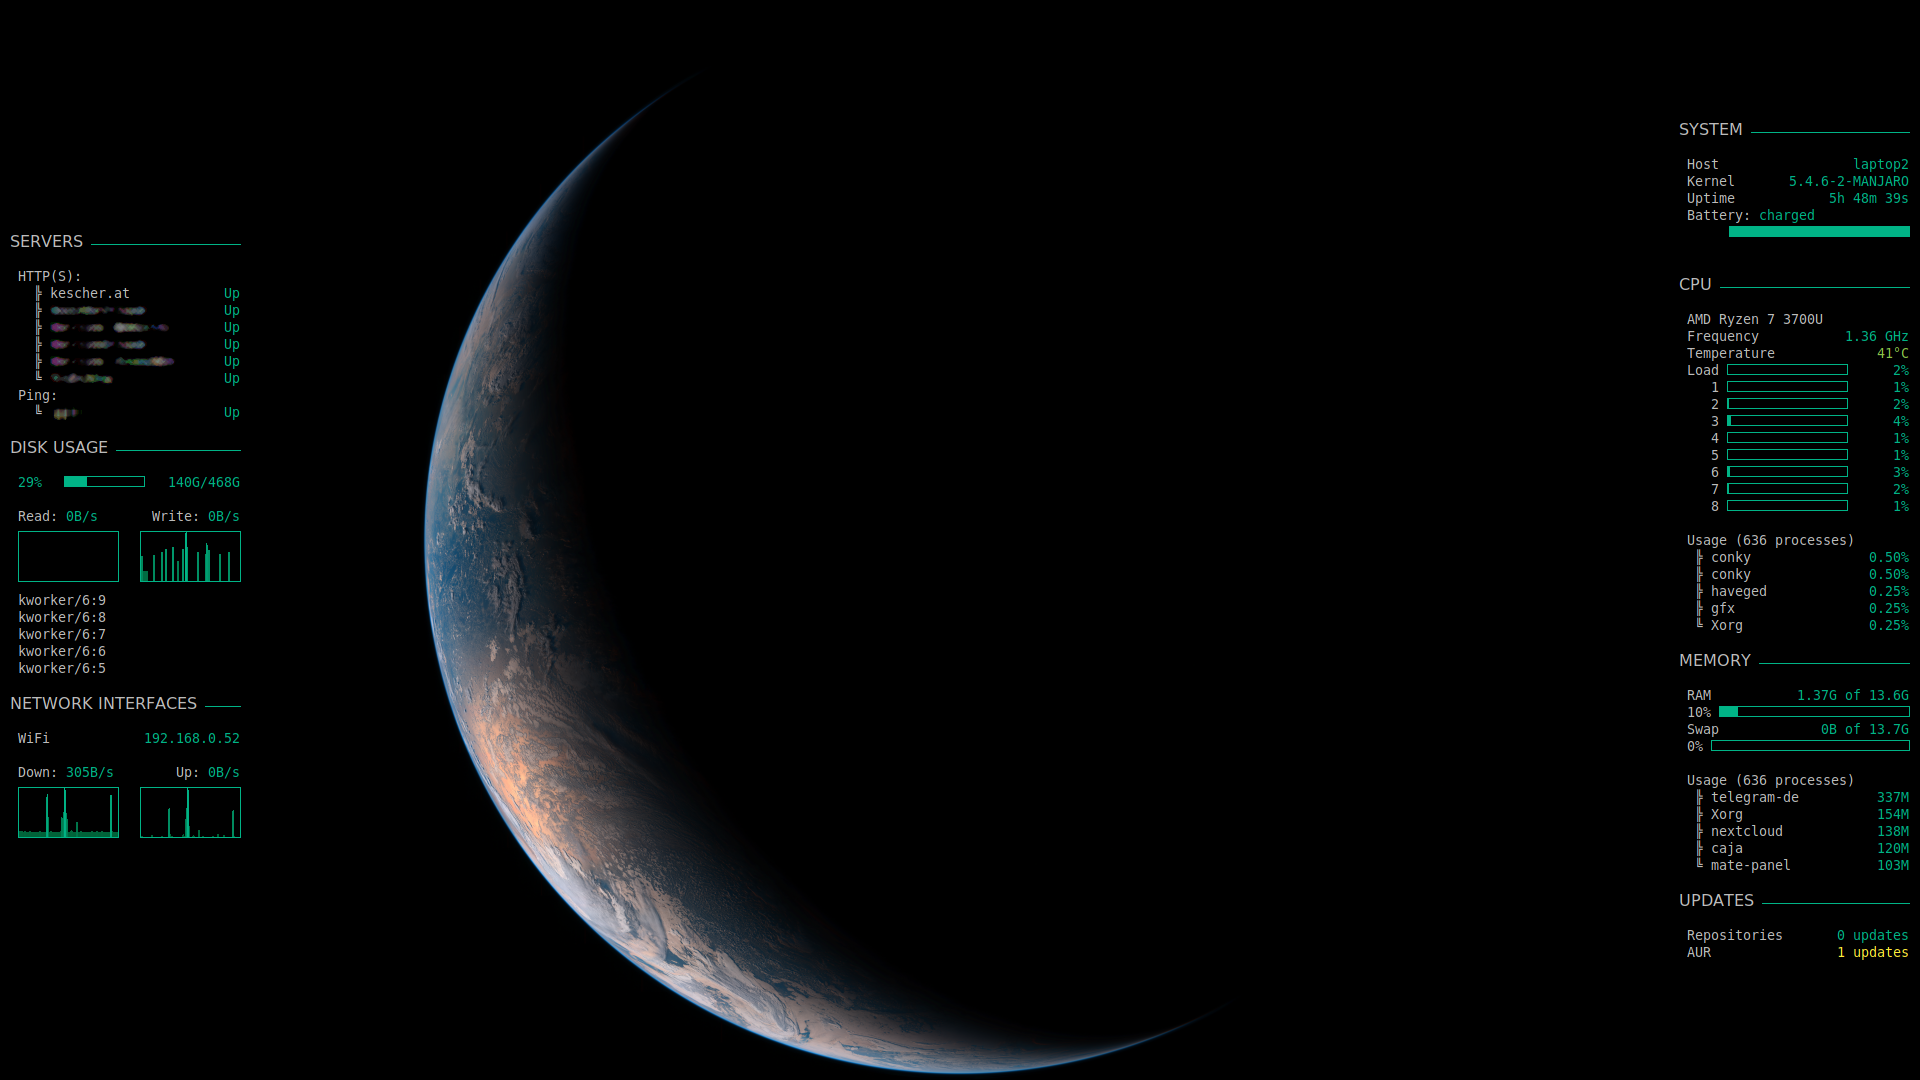
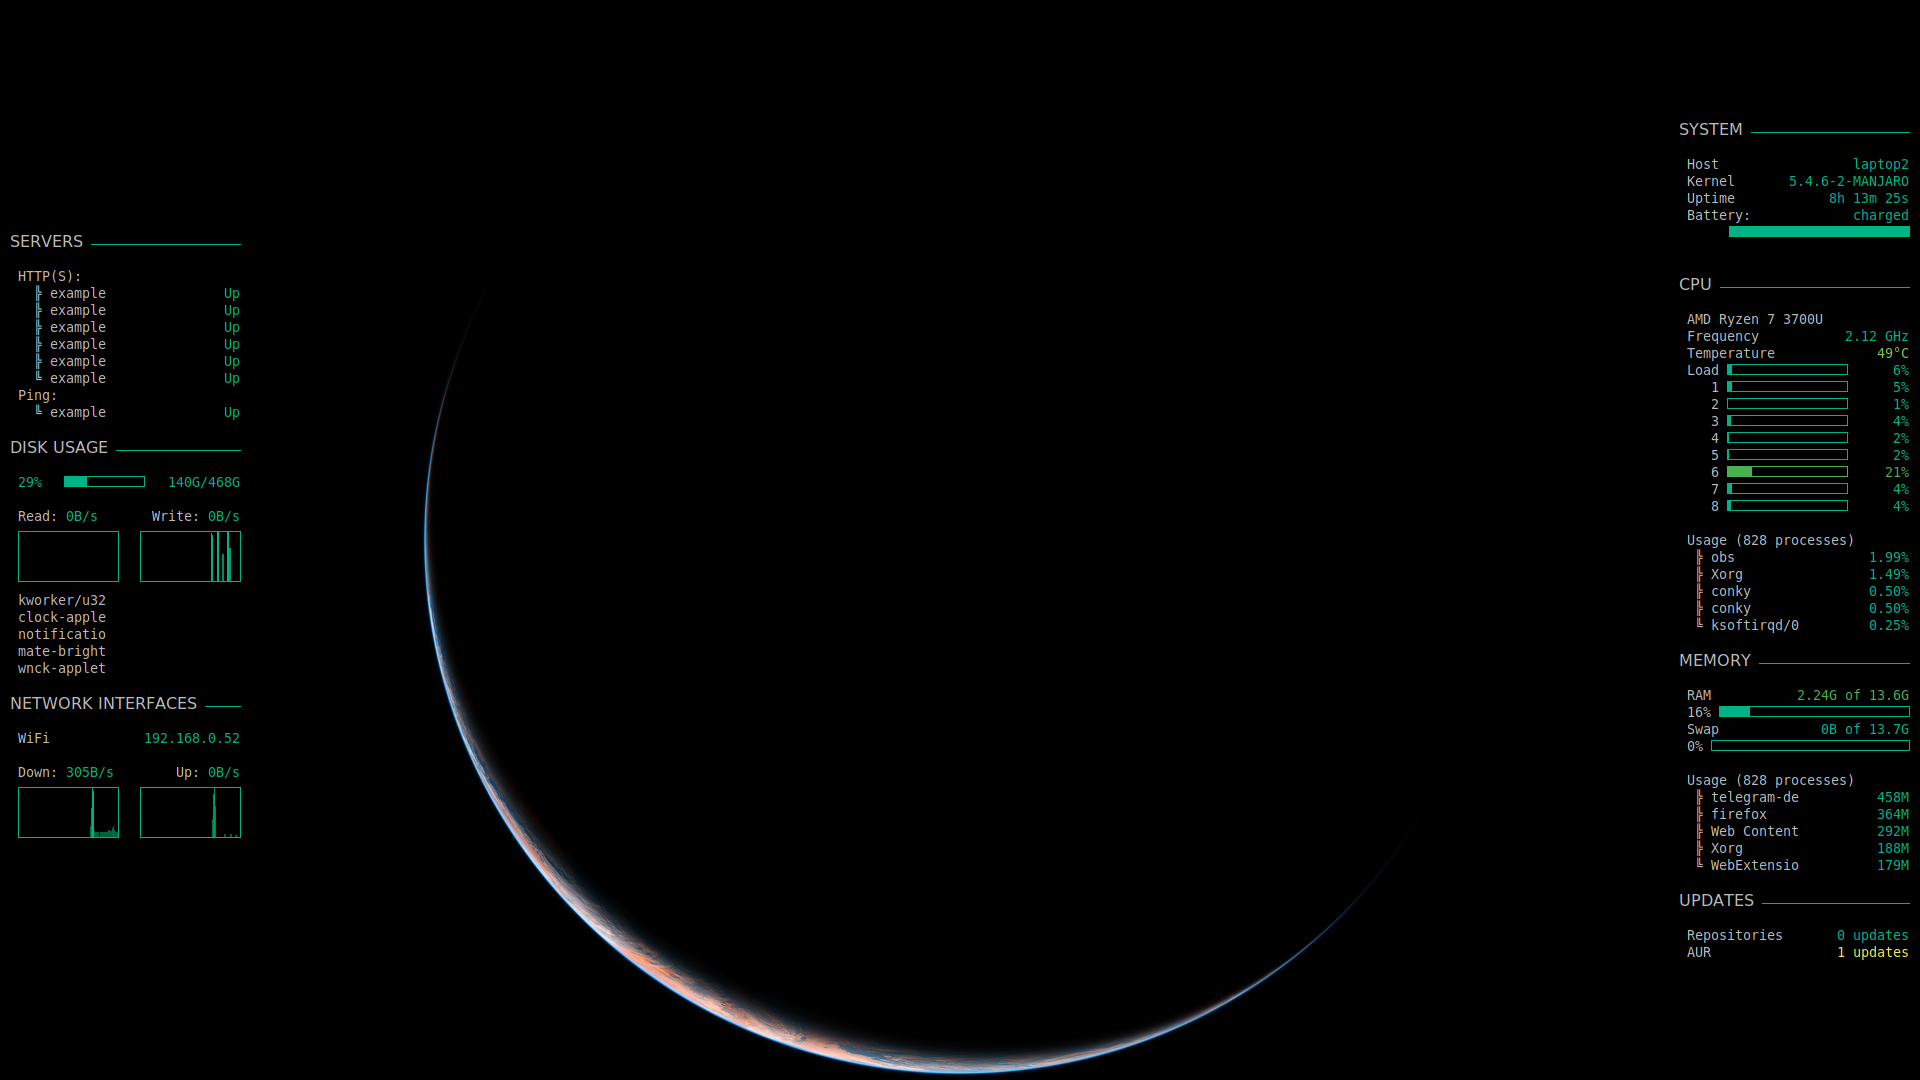
Update screenshot and README, added GIF

diff --git a/README.md b/README.md
@@ -25,4 +25,4 @@ Requirements:
 
 All files are intended to be located at ~/.config/conky/. If you want a different path, you will have to change it in each file.
 
-![screenshot](screenshot.png)
+![demo](demo.gif)
